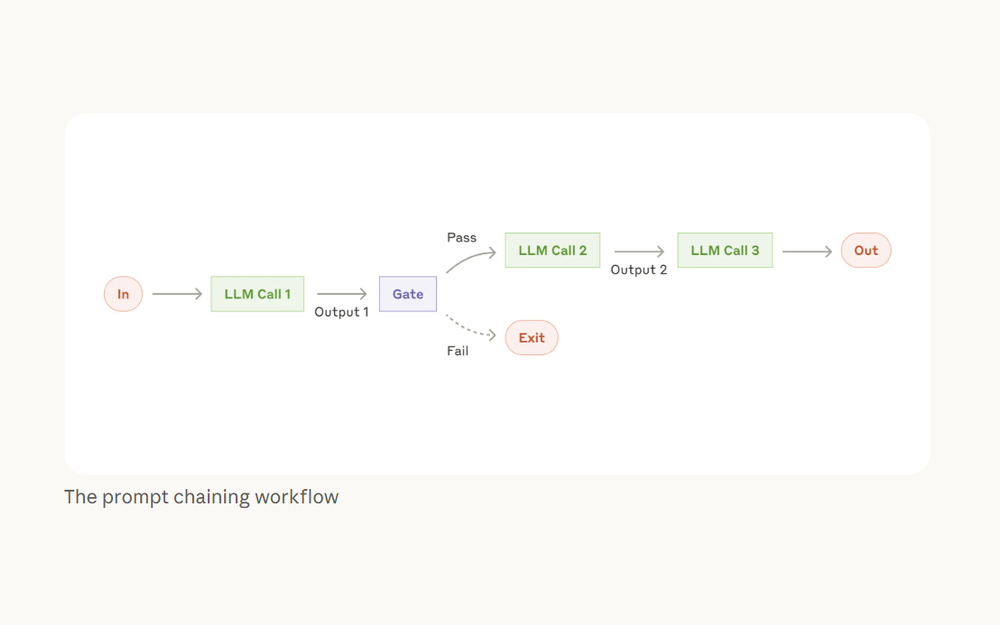
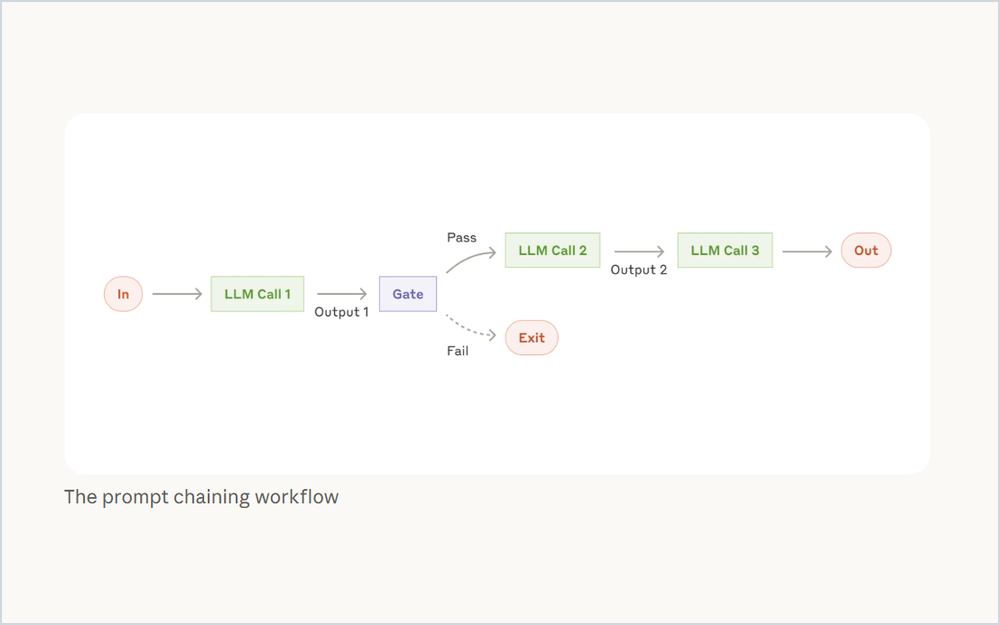
Make every image the same visible box in topics 01-06
Add a light border to framed images with white backgrounds so their
frame shows on GitHub's white page, and split topic 06's wide benchmark
screenshot into three framed charts.

Claude-Session: https://claude.ai/code/session_01Spbr7vbSHTunCmWU2oakWx

Changed region(s): [[0.0, 0.0, 1.0, 1.0]]

diff --git a/06-choosing-the-right-model/README.md b/06-choosing-the-right-model/README.md
@@ -40,9 +40,11 @@ A few things to keep in mind:
 Benchmarks measure real things. But pricing, rate limits, context windows and even response style often matter more than a few points on a leaderboard.
 
 <p align="center">
-  <img src="images/benchmark-comparison.png" alt="Benchmark charts comparing models on intelligence index, output speed in tokens per second, and price per million tokens." width="100%">
+  <img src="images/benchmark-intelligence.png" alt="Benchmark chart comparing models on the Artificial Analysis Intelligence Index, where higher is better." width="700">
+  <img src="images/benchmark-speed.png" alt="Benchmark chart comparing models on output speed in tokens per second, where higher is better." width="700">
+  <img src="images/benchmark-price.png" alt="Benchmark chart comparing models on price in USD per million tokens, where lower is better." width="700">
   <br>
-  <sub>Image: Artificial Analysis</sub>
+  <sub>Images: Artificial Analysis</sub>
 </p>
 
 Here's what works:
